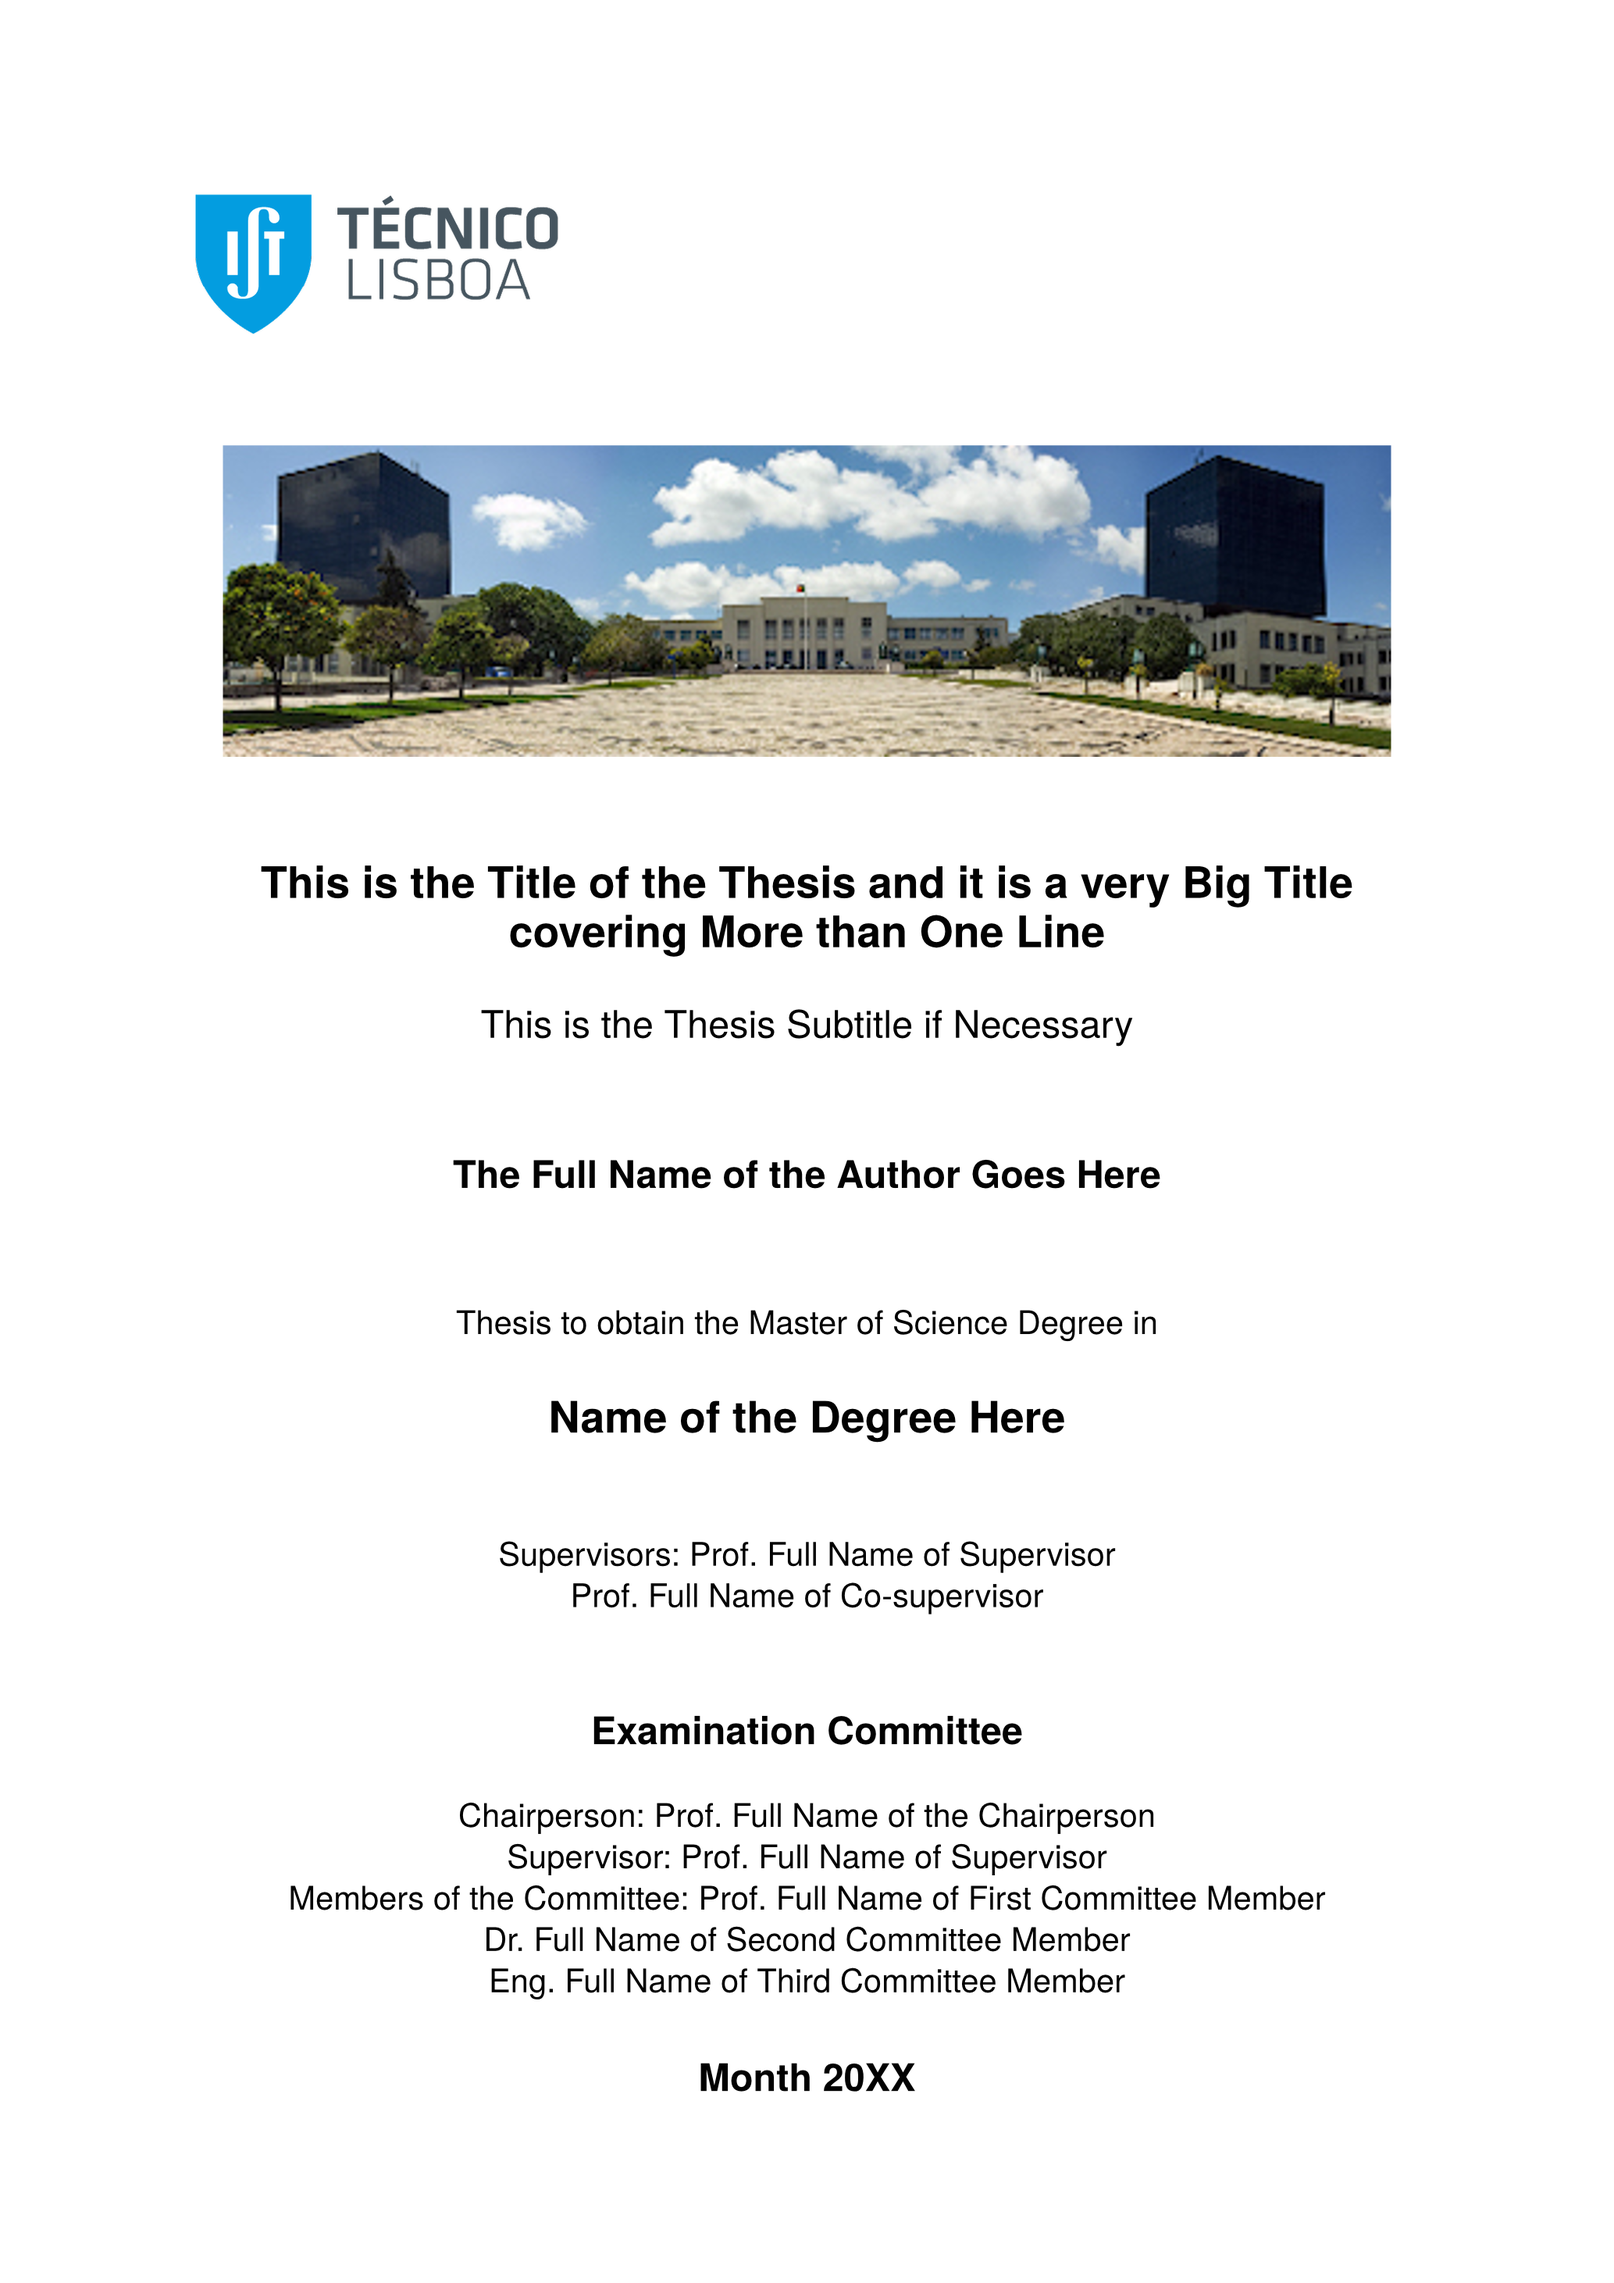
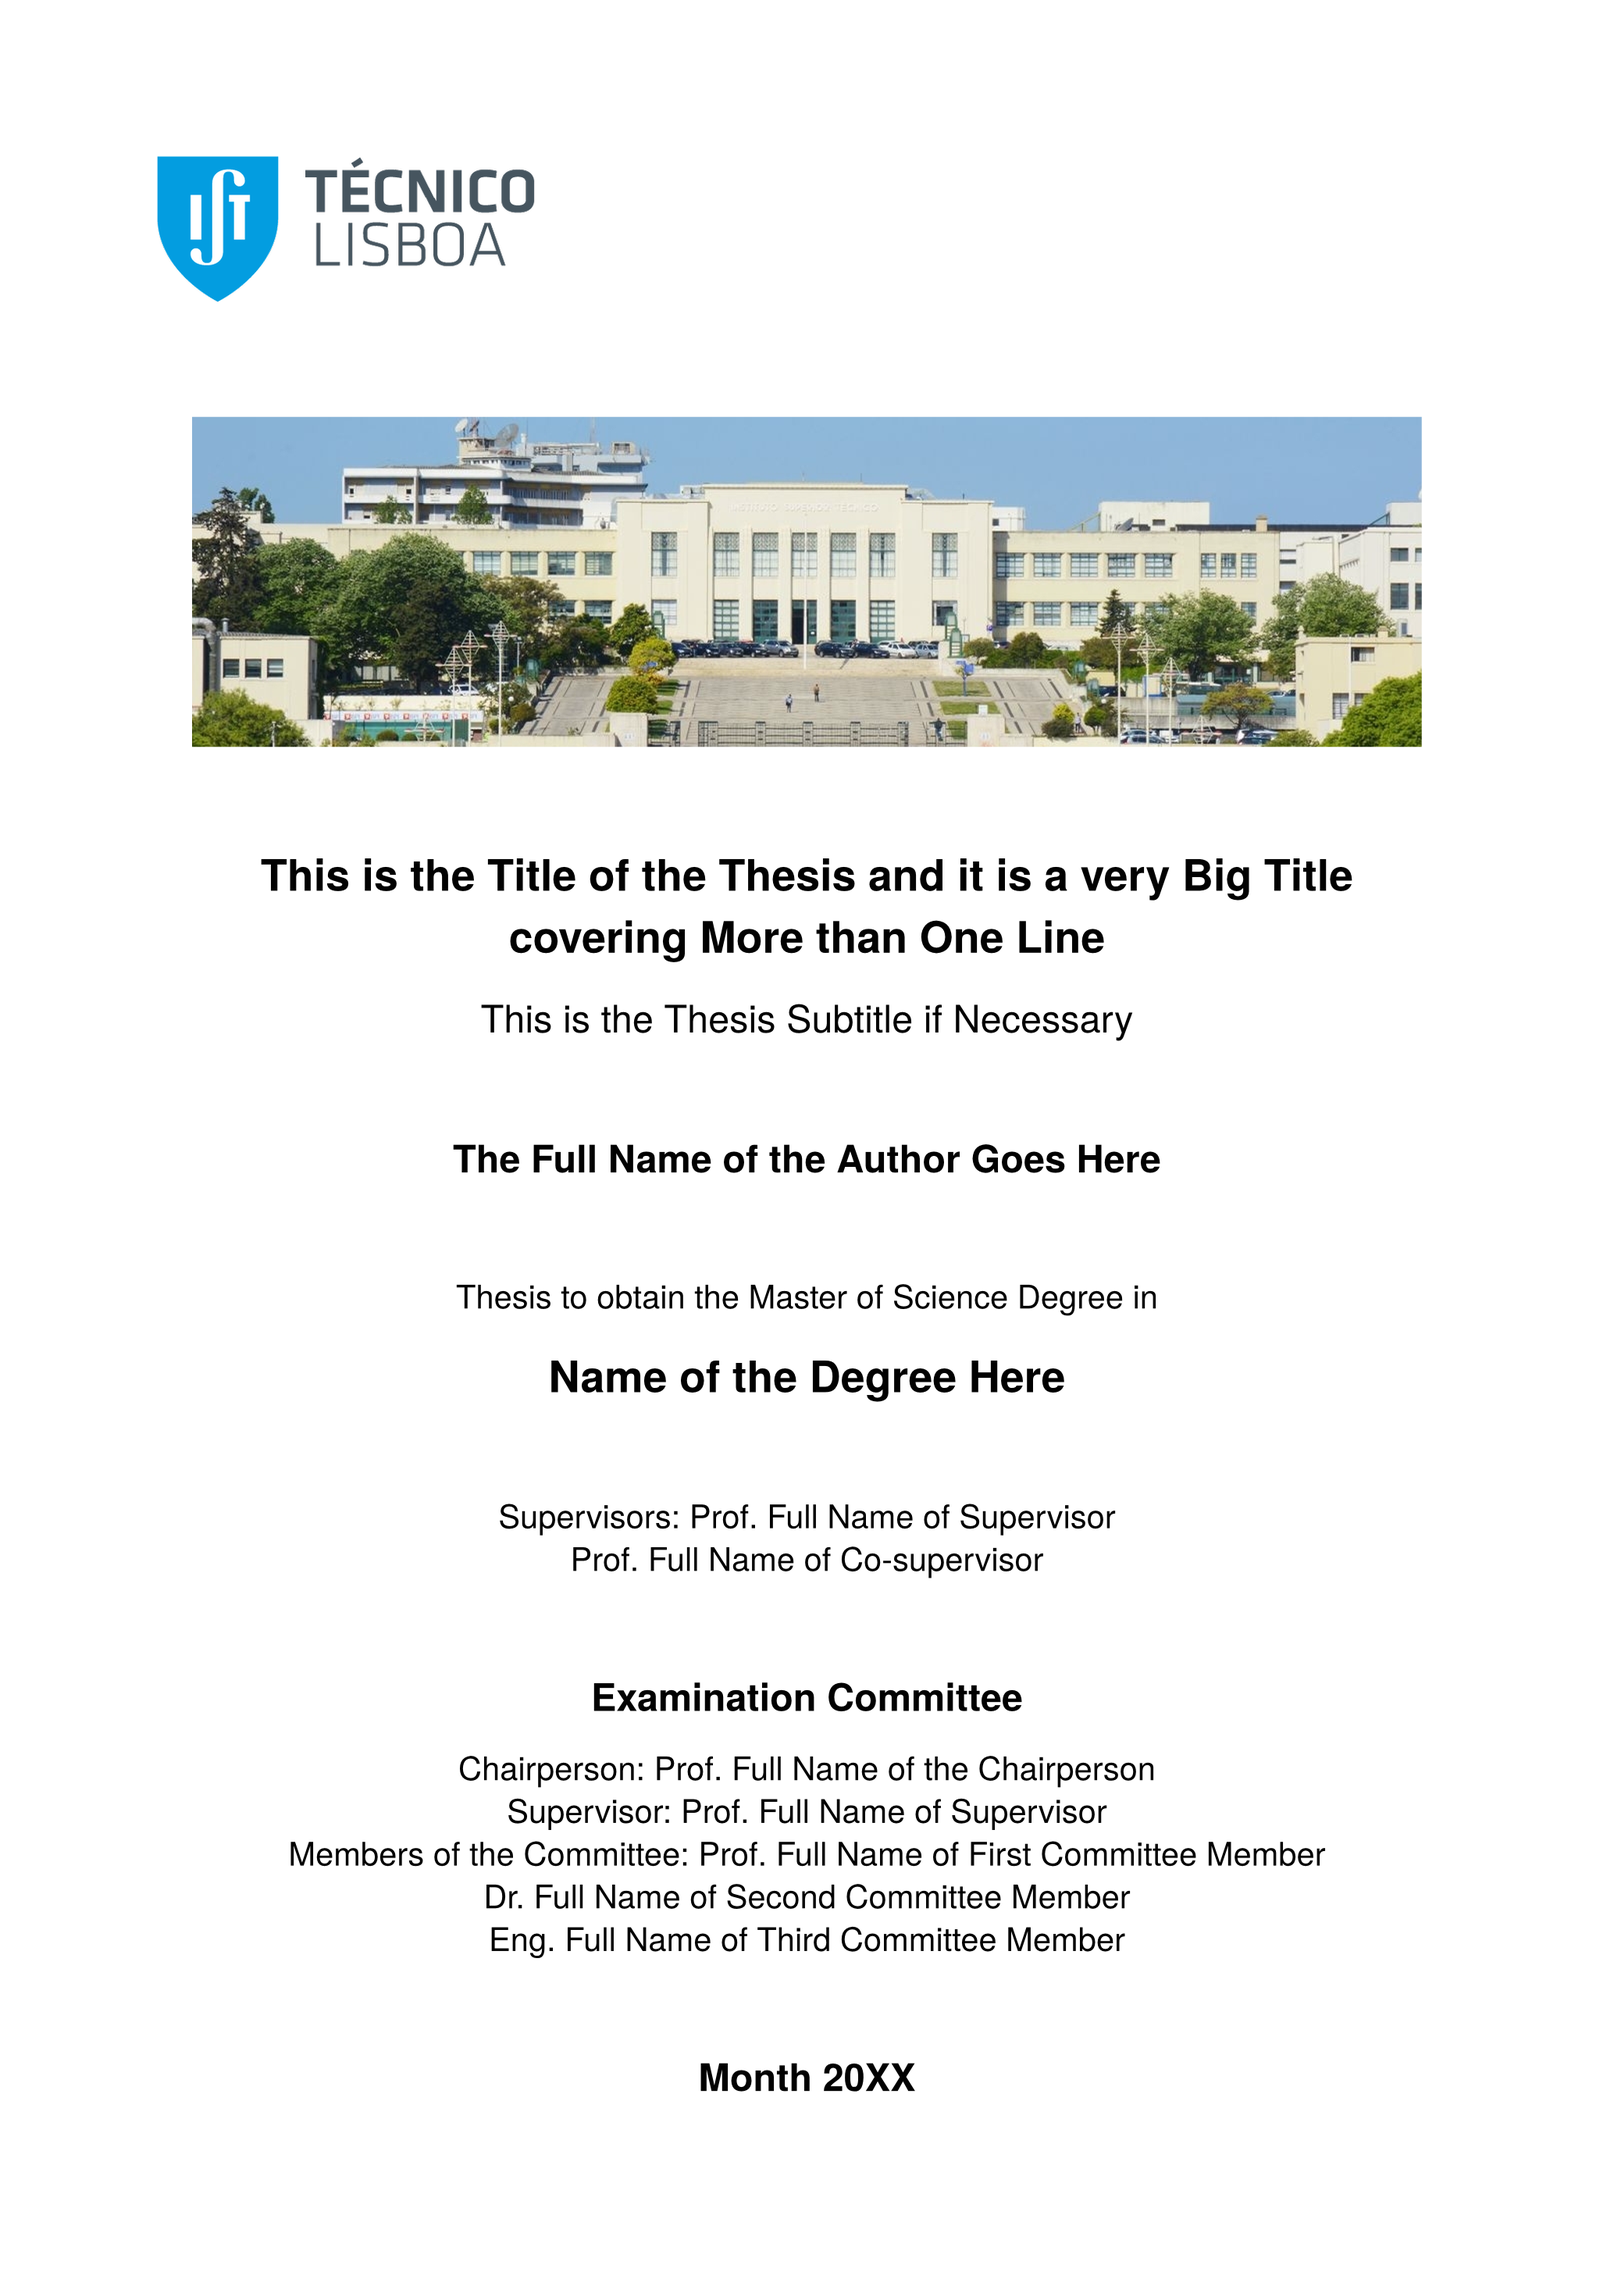
new default alameda cover

diff --git a/README.md b/README.md
@@ -45,3 +45,5 @@ The known breaking changes introduced by any new version of this package will al
 This template is not necessarily a finished product. Contributions are welcome!
 
 Also thanks to the Typst online community members for the help in some of the functionalities, and for the extensions used here.
+
+The IST logo and the default cover images used in this template are intellectual property of Instituto Superior Técnico, and shall not be used for non-professional purposes or by people outside of the institution without its express authorization. The example image used in the quick guide is in the public domain.
